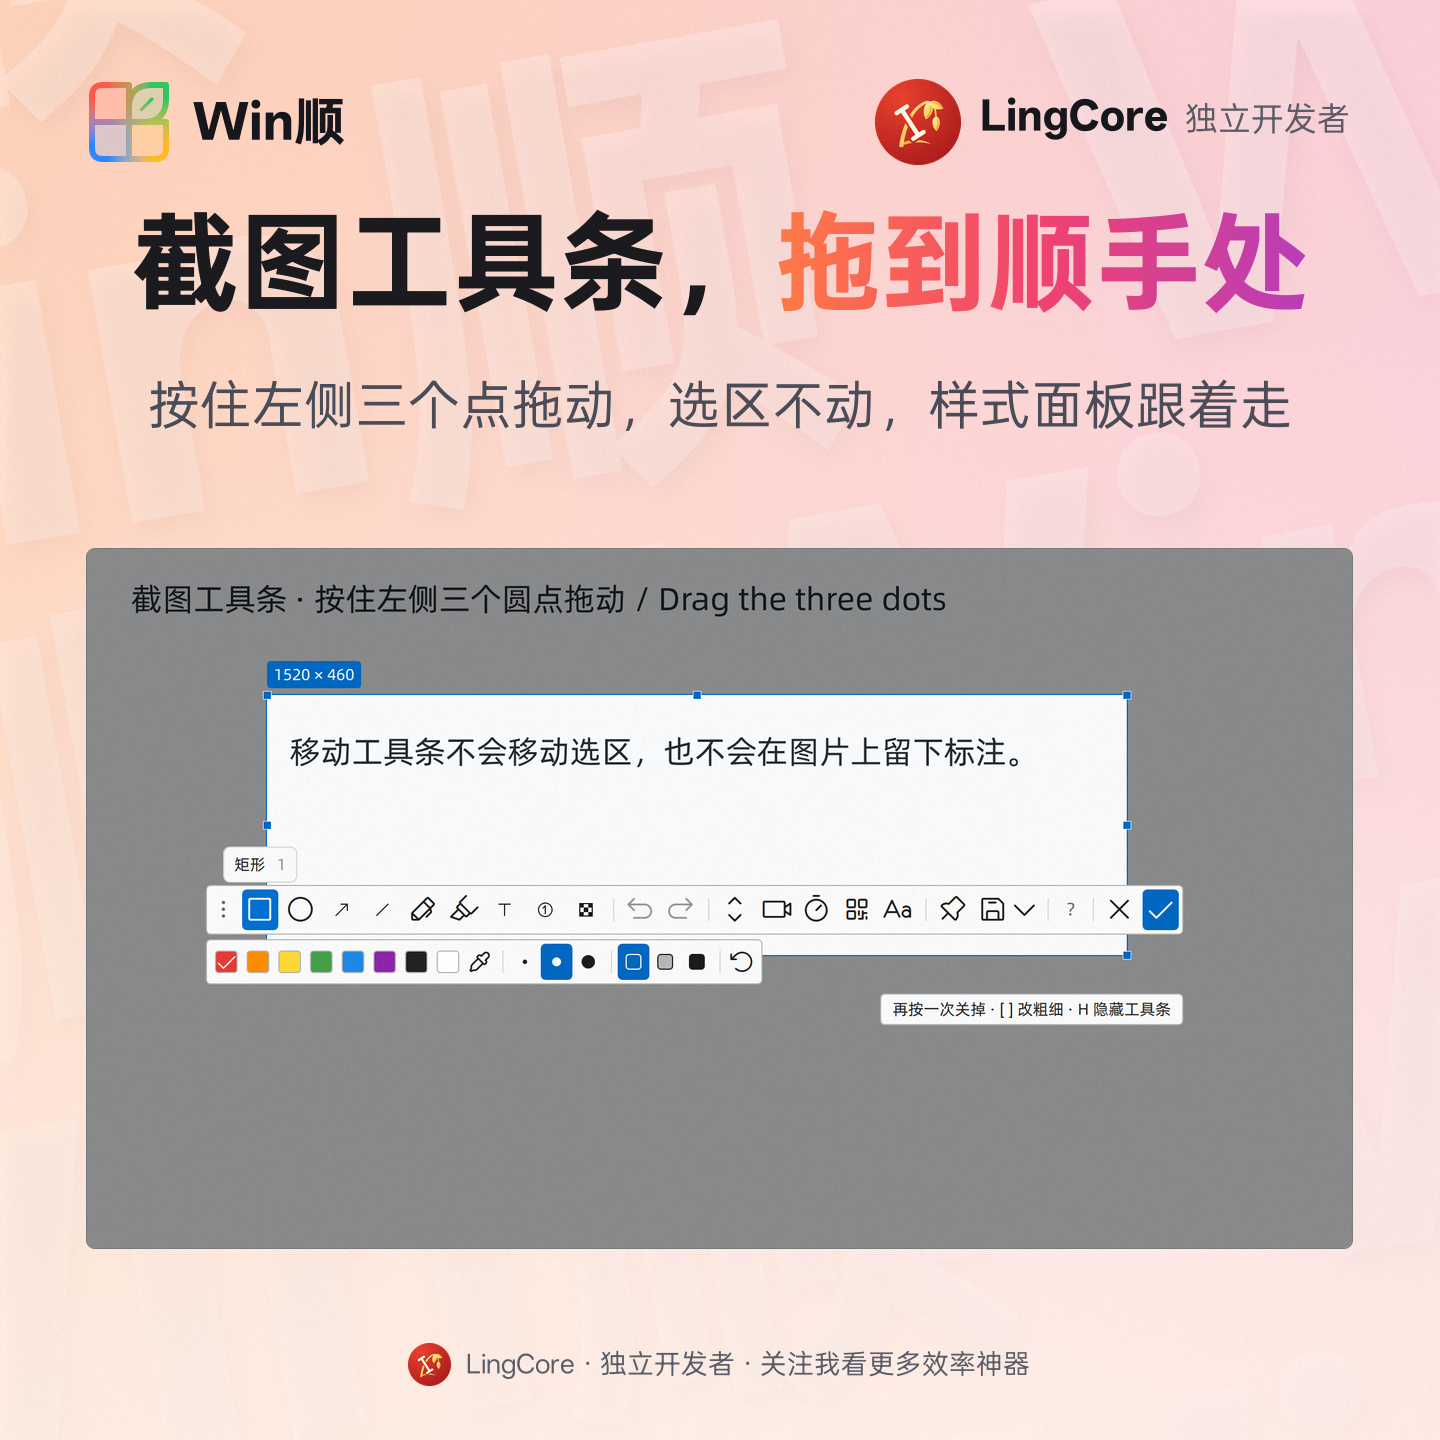
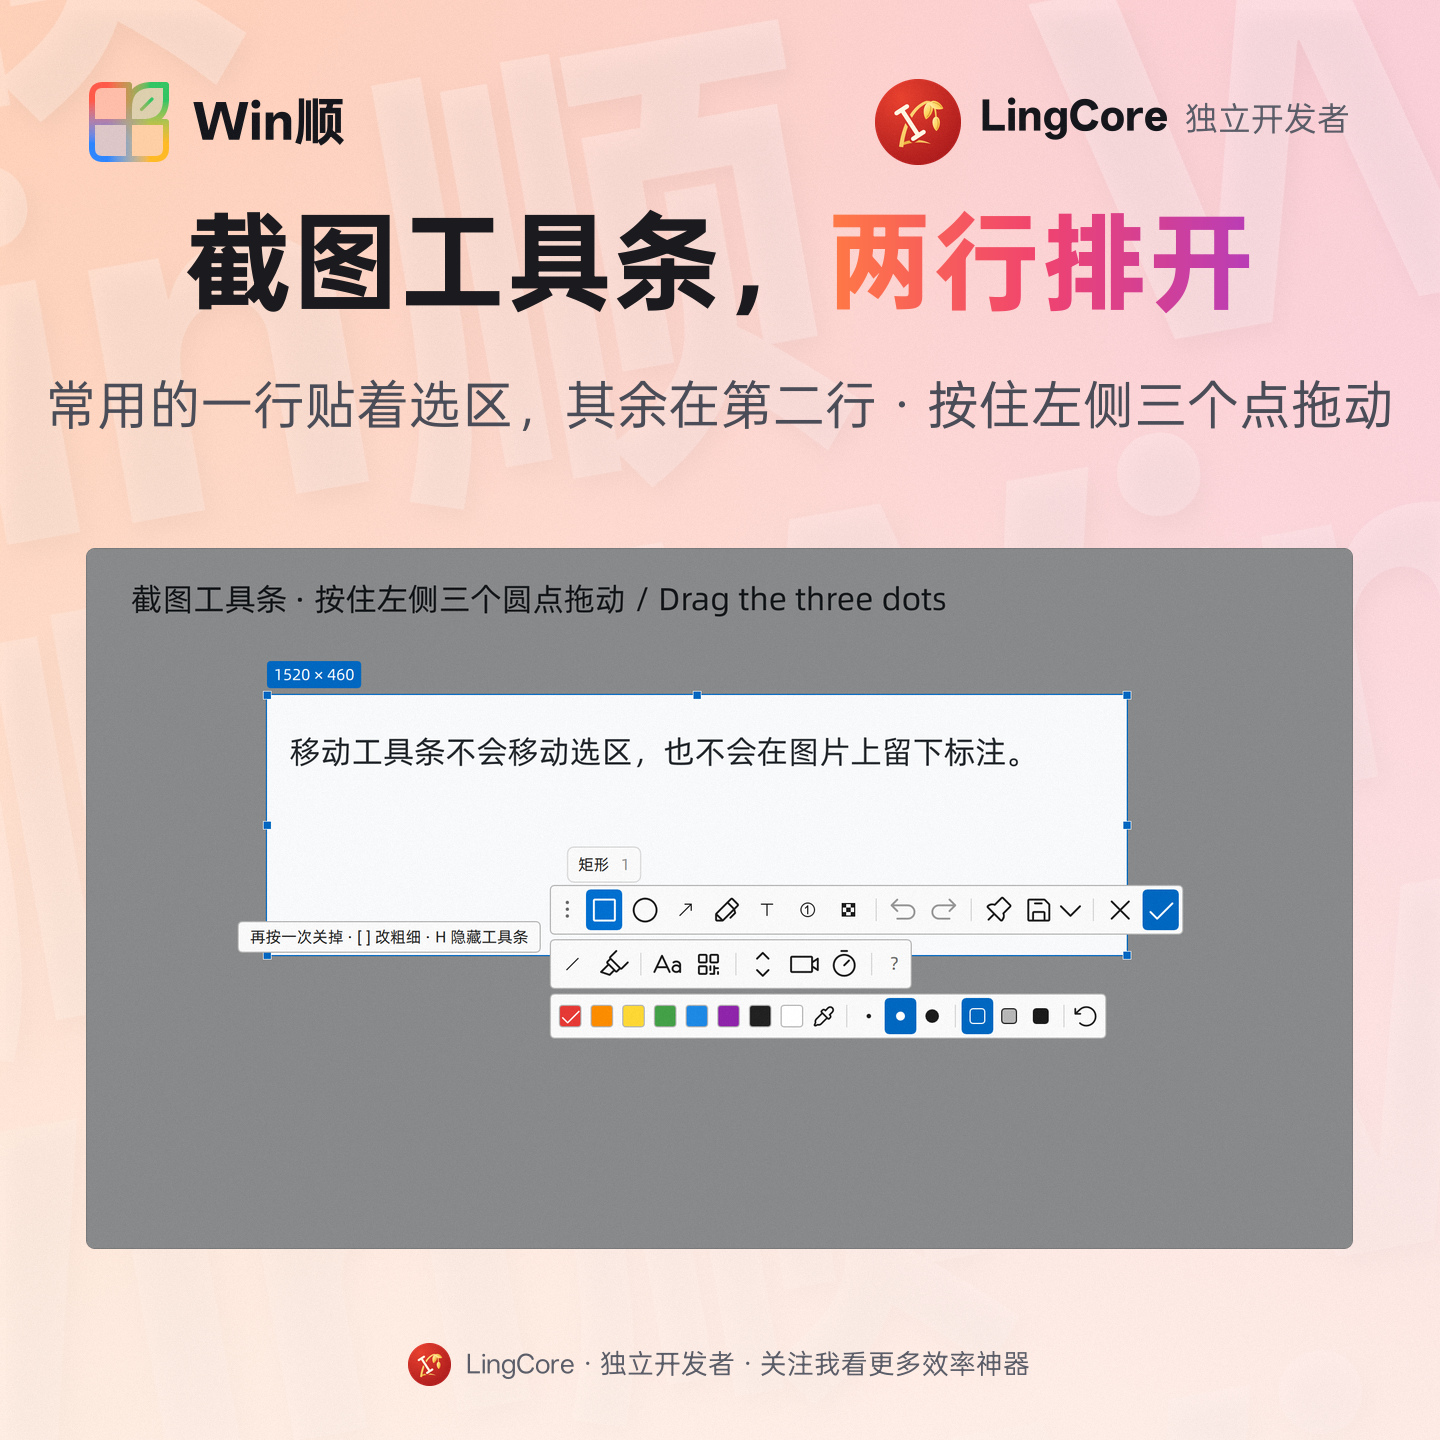
Screenshots: 0.19.0 posters (two-row capture toolbar, capture keys, presenter white board)
release019.py renders the isolated previews at 200% (toolbar drag, capture
settings tabs, --preview-presenter) and exports through release017's
square template: capture.jpg replaced, capture-keys.jpg and presenter.jpg
new. The plugin library render matches 0.18, so its poster is kept.

diff --git a/tools/screenshots/release019.py b/tools/screenshots/release019.py
@@ -1,0 +1,97 @@
+"""Capture 0.19 with the isolated previews and the square poster template.
+
+--capture-only renders into a fresh --work: the settings (plugin library,
+for comparison), the screenshot toolbar's two rows, the capture settings' tabs (按键 among
+them) and the presenter's white board (--preview-presenter). Inspect the raw
+renders and preview.log files, then use --export-only with the same --work.
+Only the posters in SOURCES are written; the others keep their 0.18 files.
+"""
+import argparse
+import hashlib
+import json
+import os
+from pathlib import Path
+import subprocess
+import sys
+
+import release017
+import shots
+
+
+# The plugin library (settings/p09-t1.png) is rendered too: its made-up rows
+# look as in 0.18, so plugin-library.jpg is kept.
+release017.SOURCES = {
+    "capture": ("L-capture", "toolbar/toolbar-with-style.png", None),
+    # The 按键 tab after the preview's own key presses (a key changed, one
+    # refused), down to the row under 收起/展开.
+    "capture-keys": ("L-capture-keys", "capture-settings/capture-keys-states.png", 1446),
+    "presenter": ("L-presenter", "presenter/presenter-board.png", None),
+}
+shots.README_ONLY = tuple(
+    ("capture", "L-capture", "截图工具条，[两行排开]", "常用的一行贴着选区，其余在第二行 · 按住左侧三个点拖动")
+    if entry[0] == "capture" else entry for entry in shots.README_ONLY
+) + (
+    ("capture-keys", "L-capture-keys", "截图按键，[自己来定]", "按下新键就换 · 冲突当场说明 · 一键恢复默认"),
+    ("presenter", "L-presenter", "演示和白板，[边讲边画]", "桌面上直接画 · W 白板、K 黑板 · X 激光笔，Esc 回到程序"),
+)
+# Expected in the presenter's log: the text and number boxes ask for the keys
+# while the off-screen windows never take the focus.
+KNOWN = ("which has Qt::WindowDoesNotAcceptFocus set.",)
+
+
+def capture(exe, plugin, work):
+    work.mkdir(parents=True)
+    temp = work / "temp"
+    temp.mkdir()
+    env = {**os.environ, "TEMP": str(temp), "TMP": str(temp)}
+    app_dir = ["--app-dir", str(exe.parent)]
+    runs = (
+        (exe, "settings", "--preview-settings", [], ()),
+        (plugin, "toolbar", "--preview-capture-tools", app_dir + ["--toolbar-drag"], ()),
+        (plugin, "capture-settings", "--preview-capture-settings", app_dir + ["--groups"], ()),
+        (plugin, "presenter", "--preview-presenter", app_dir, KNOWN),
+    )
+    for program, folder, flag, extra, known in runs:
+        print("Capturing", folder, flush=True)
+        result = subprocess.run([str(program), flag, str(work / folder), "--scale", "2",
+                                 "--renderer", "d3d11", *extra], env=env)
+        log = work / folder / "preview.log"
+        warnings = [line for line in log.read_text(encoding="utf-8").splitlines()
+                    if line.startswith("WARNING:")] if log.is_file() else []
+        if result.returncode and (not known or len(warnings) != result.returncode
+                                  or any(not line.endswith(known) for line in warnings)):
+            result.check_returncode()
+        if warnings:
+            print(f"Retained {len(warnings)} known warnings in {folder}/preview.log", flush=True)
+    digest = lambda path: hashlib.sha256(path.read_bytes()).hexdigest()
+    (work / "capture.json").write_text(json.dumps({
+        "exe": str(exe), "sha256": digest(exe),
+        "capture": str(plugin), "capture_sha256": digest(plugin),
+        "capture_app_sha256": digest(plugin.with_name("WinShunCaptureApp.dll")),
+        "scale": 2, "renderer": "d3d11",
+        "profiles": "isolated preview fixtures; production UI and controllers",
+    }, indent=2), encoding="utf-8")
+
+
+def main():
+    ap = argparse.ArgumentParser(description=__doc__)
+    ap.add_argument("--exe", type=Path, required=True)
+    ap.add_argument("--capture", type=Path)
+    ap.add_argument("--work", type=Path, required=True)
+    modes = ap.add_mutually_exclusive_group(required=True)
+    modes.add_argument("--capture-only", action="store_true")
+    modes.add_argument("--export-only", action="store_true")
+    args = ap.parse_args()
+    if args.capture_only:
+        if not args.capture:
+            ap.error("--capture is required for capturing")
+        if args.work.exists():
+            ap.error("--work must be a fresh directory when capturing")
+        capture(args.exe.resolve(strict=True), args.capture.resolve(strict=True), args.work.resolve())
+        return
+    sys.argv = [sys.argv[0], "--exe", str(args.exe), "--work", str(args.work), "--export-only"]
+    release017.main()
+
+
+if __name__ == "__main__":
+    main()

diff --git a/tools/screenshots/README.md b/tools/screenshots/README.md
@@ -135,3 +135,12 @@ tools\screenshots\run.ps1 -Exe <要拍的 WinShun.exe，发布版，带拖放圆
 ## 0.18.0 补拍
 
 `release018.py` 沿用 `release017.py` 的隔离预览与方形品牌模板，更新搜索面板、剪贴板、设置、截图及录屏，并接入真实网页插件和图片文字搜索窗口。先运行 `--capture-only`。网页图由 `tools/verify_web_plugin.py` 生成到同一工作目录的 `web/`，插件库图取新版设置预览的 `settings/p09-t1.png`，收藏夹为 `p05-t0.png`，备份位于高级页 `p07-t0.png`。图片文字搜索用插件的 `--preview-ocr-search` 和独立 `--data-dir` 导出到 `ocr/`，先在该目录的 `ocr-search.ini` 写入样例文件夹配置，再传 `--index --query 西南`。快捷键使用 `--preview-results <work>/shortcuts --shortcut-panel`，来源文件为 `shortcut-panel-launcher.png`。检查原图后再运行 `--export-only`。源码与产物校验见本版发布验证记录。
+
+## 0.19.0 补拍
+
+`release019.py` 沿用 `release017.py` 的导出和方形品牌模板，只换下面三张，其余海报保留 0.18 的文件。`--capture-only` 用独立预览按 200% 渲染到新的 `--work`：截图插件 `--preview-capture-tools --toolbar-drag`（两行工具条，`toolbar/toolbar-with-style.png` → `capture.jpg`，标题改为两行排开）、`--preview-capture-settings --groups`（新增 `capture-keys.jpg`，取按键页经预览自身按键检查后的 `capture-keys-states.png`：改过的保存键带“恢复默认”、被拒的键有说明，裁到“收起/展开”一行），以及新增的 `--preview-presenter`（`presenter.jpg`：生产 `Presenter`、`PresenterOverlay`、`PresenterToolbar` 离屏，假的单显示器钩子，不碰前台和磁盘；白板上的笔迹经墨迹窗口自己的鼠标路由画出，工具条按 `PresenterHost` 的初始位置叠上去）。演示预览日志里的 8 条 `requestActivate() … WindowDoesNotAcceptFocus` 是文字框和序号框请求键盘焦点、离屏窗口不接受焦点所致，入口只接受这一种警告。激光笔轨迹（`--laser`）没有进海报。设置预览也一并渲染：插件库页的演示数据与 0.18 相同，`plugin-library.jpg` 不换；资源管理器标签页不在这份演示数据里，不另加。检查原图后再运行 `--export-only`。
+
+```powershell
+python tools/screenshots/release019.py --exe <独立部署目录>/WinShun.exe --capture <构建目录>/library-plugins/winshun.capture/WinShunCapture.exe --work <新的原图目录> --capture-only
+python tools/screenshots/release019.py --exe <独立部署目录>/WinShun.exe --work <原图目录> --export-only
+```
